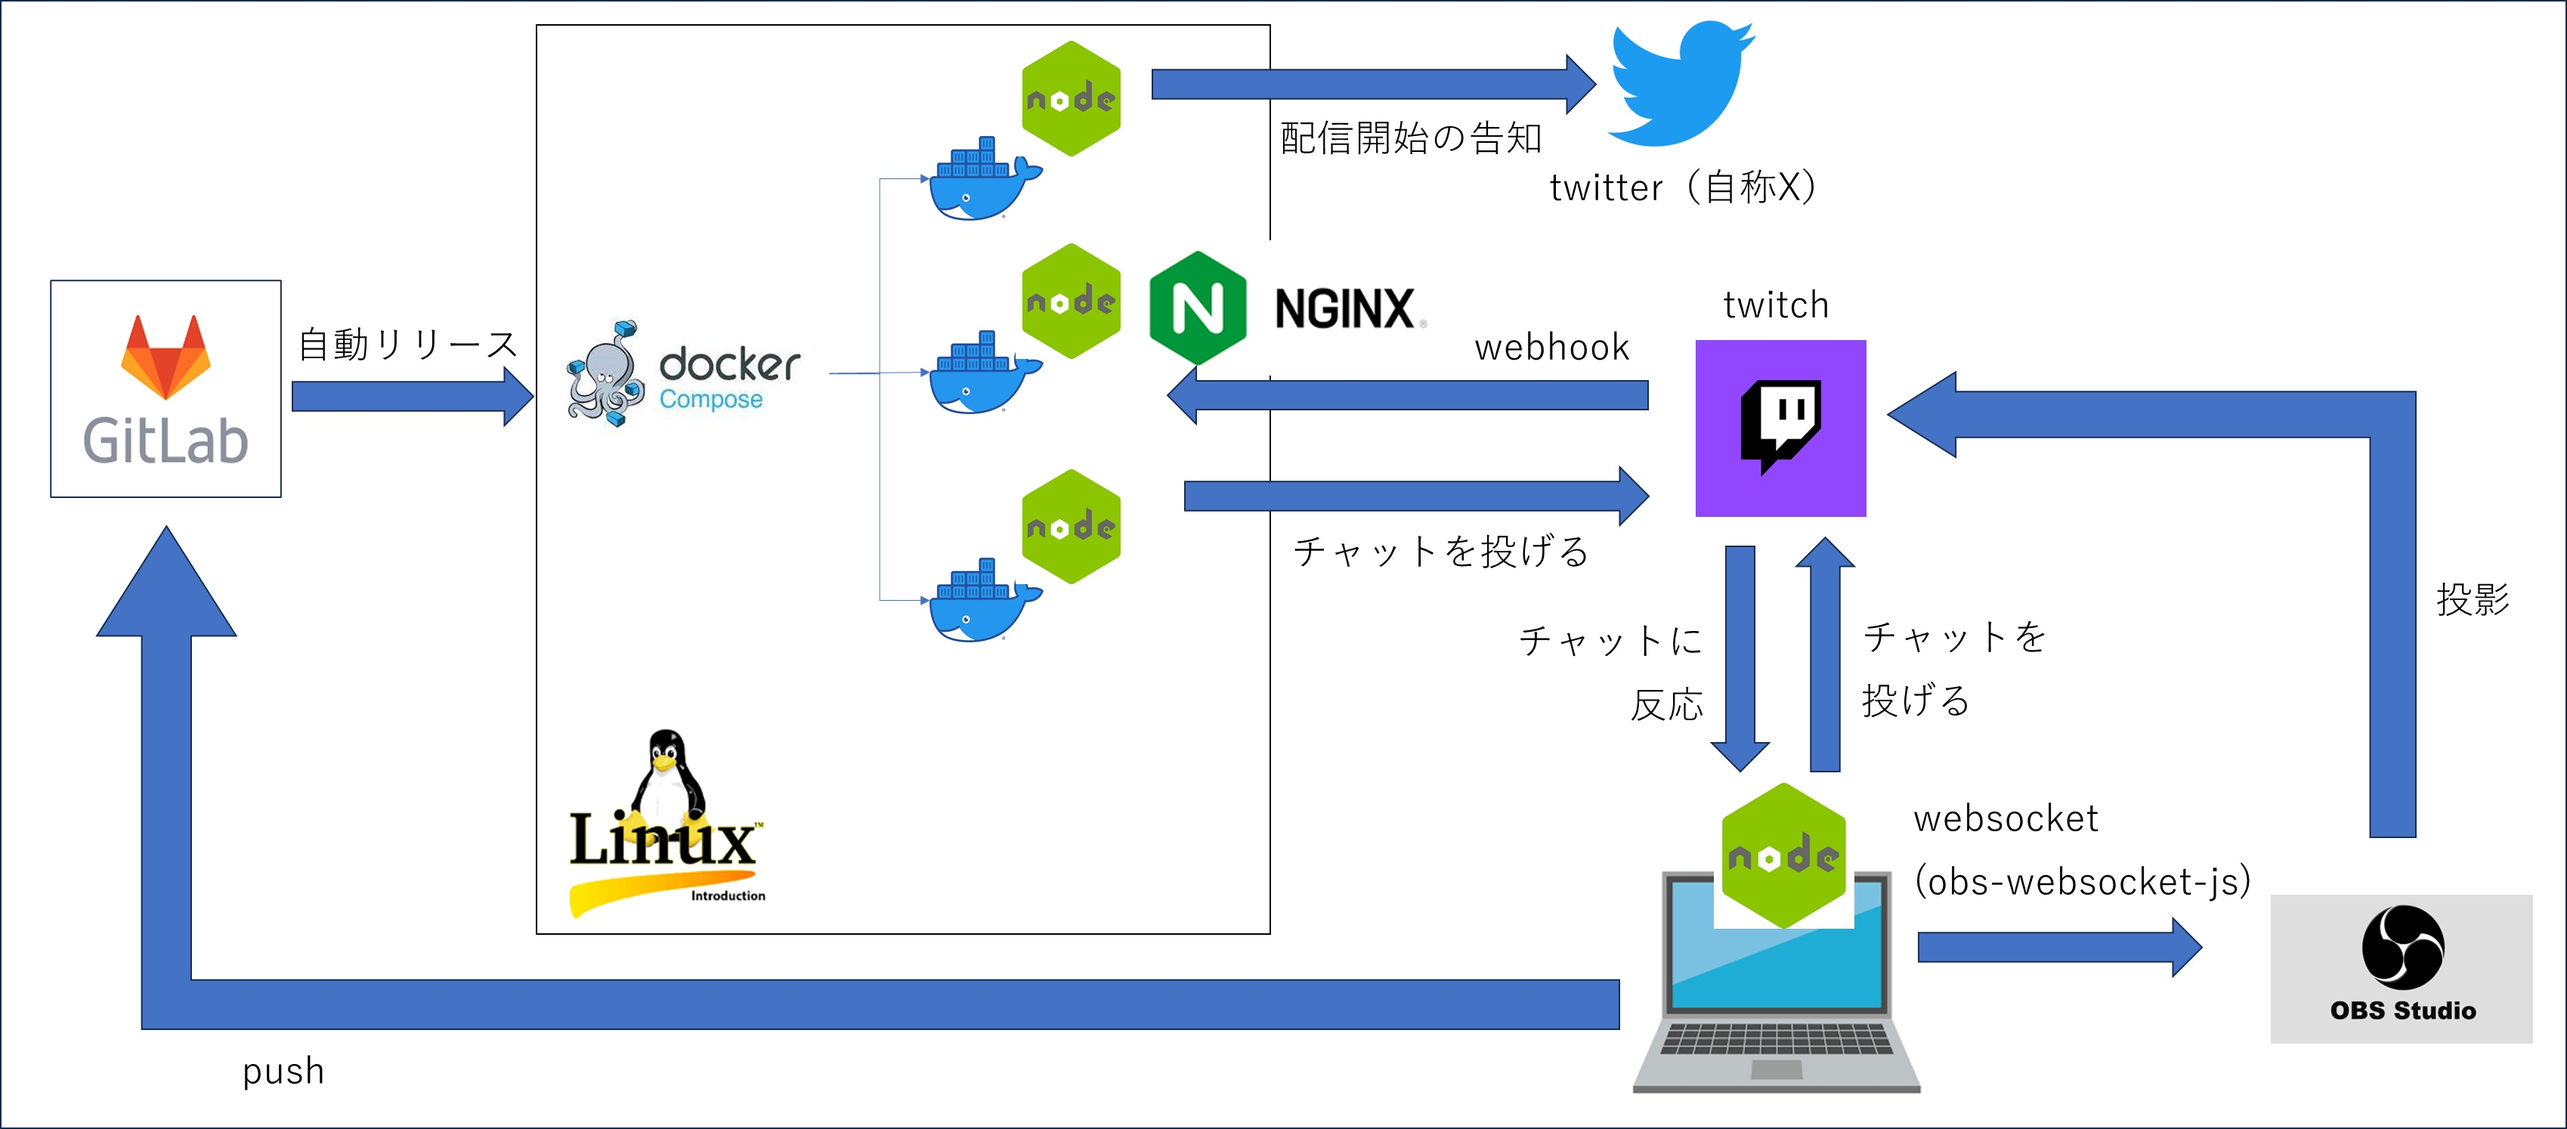
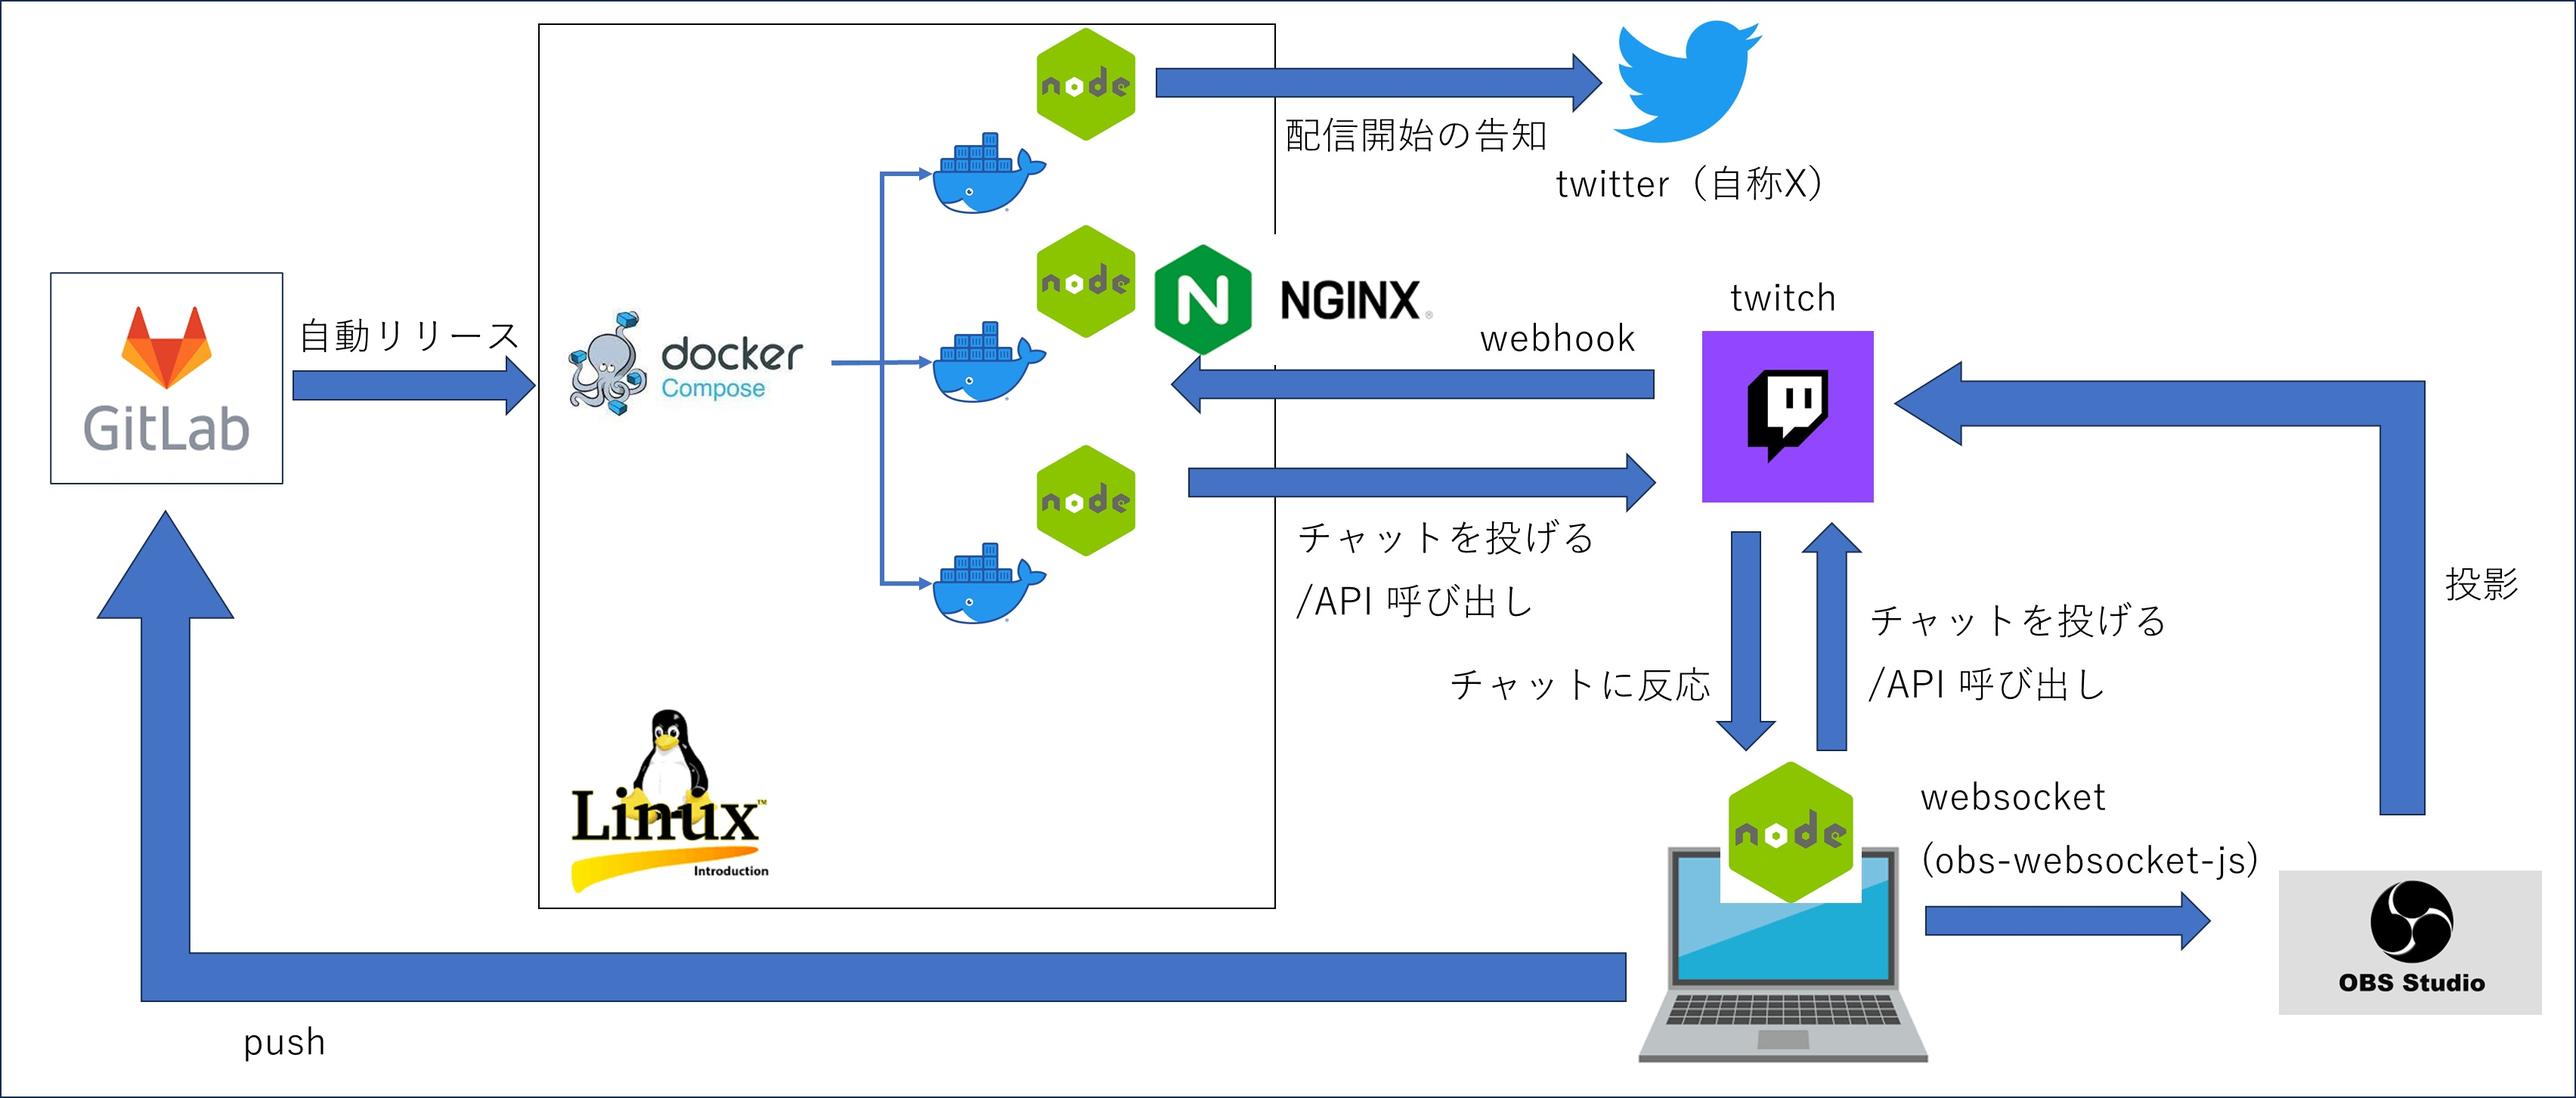
js×twitch記事執筆中

diff --git a/contents/development/javascript/nodejs/twitch.html b/contents/development/javascript/nodejs/twitch.html
@@ -47,6 +47,7 @@
       <li><a href="https://qiita.com/taumax" target="_blank"><img src="../../../../images/icon_qiita.png" alt="Qiita"></a></li>
     </ul>
     <ul class="indent_no">
+      <li><a href="#firstly">はじめに</a></li>
       <li><a href="#implementation">作った物</a></li>
       <li><a href="#authentication">Twitch 認証</a></li>
       <li><a href="#user">Twitch の<br/>ユーザー</a></li>
@@ -74,6 +75,7 @@
         <li><a href="https://qiita.com/taumax" target="_blank"><img src="../../../../images/icon_qiita.png" alt="Qiita"></a></li>
       </ul>
       <ul class="indent_no">
+        <li><a href="#firstly">はじめに</a></li>
         <li><a href="#implementation">作った物</a></li>
         <li><a href="#authentication">Twitch 認証</a></li>
         <li><a href="#user">Twitch のユーザー</a></li>
@@ -103,11 +105,20 @@
         </ul>
 
         <br/><br/>
+        <span id="firstly"></span>
+        <h3 class="title">はじめに</h3>
+        <p>
+          このページでは、自分が Node.js を使って実際に作った物について記載しています。<br/>
+          <a href="./nodejs.html">Node.js</a>の記事を読んだ前提で書いています。今見ているこの頁の1階層上の記事です。<br/>
+          EventEmitter と言われてピンと来ないようなら、<a href="./nodejs.html#async">非同期のイベント駆動型ランタイム</a>の部分だけでも読んでください。<br/>
+        </p>
+
+        <br/>
         <span id="implementation"></span>
         <h3 class="title">作った物</h3>
         <p>
-          twitchというプラットフォームを使ってゲームの配信をしているのですが、Node.jsを使ってbotを動かすなど、いろいろカスタマイズしています。そのシステム構成が以下の図。<br/>
-          OBSはゲーム配信するためのツールです。websocket経由で操作しています。<br/>
+          Twitch というプラットフォームを使ってゲームの配信をしているのですが、Node.jsを使ってbotを動かすなど、いろいろカスタマイズしています。そのシステム構成が以下の図。<br/>
+          図右下の OBS Studio はゲーム配信するためのツールです。 <a href="https://github.com/obs-websocket-community-projects/obs-websocket-js" target="_blank" rel="noopener noreferrer">obs-websocket-js</a> というライブラリを使って、Node.js から WebSocket 経由で操作しています。<br/>
           <img src="./img/play_with_nodejs.jpg" width="800" /><br/>
         </p>
 
@@ -116,14 +127,20 @@
         <ol>
           <li>
             チャンネルポイント使用→webhook→チャット→OBS操作<br/>
-            twitchにはチャンネルポイントという機能があり、使用されたら任意のサーバーにWebhookリクエストを飛ばすことができます。<br/>
-            サーバにWebhookが飛んで来たらそれに対応するメッセージをチャットに投げて、そのチャットをトリガーにEventEmitterでローカルのNode.jsを稼働させ、websocket経由でOBSを操作しています。<br/>
-            以下がチャンネルポイントを使った例(2h9m35s頃)。webhookを受けて「やきつくしてさしあげますわ！」という台詞をbotが喋り、その台詞をトリガーにローカルのNode.jsが稼働し、OBSを操作することで画面に炎を表示させたり、BGMを流したりしています。<br/>
+            twitchにはチャンネルポイントという機能があり、（普通こんな使い方はしないのですが）使用されたら任意のサーバーに Webhook リクエストを飛ばすこともできます。<br/>
+            サーバに Webhook が飛んで来たらそれに対応するメッセージをチャットに投げて、そのチャットをトリガーに EventEmitter でローカルの Node.js を稼働させ、WebSocket 経由で OBS を操作しています（下図の赤線の流れ）。<br/>
+            <img src="./img/chanel_point.jpg" width="800" /><br/>
+
+            <br/>
+            以下がチャンネルポイントを使った例(2h9m35s頃)。 Webhook を受けて「やきつくしてさしあげますわ！」という台詞をbotが喋り、その台詞をトリガーにローカルの Node.js が稼働し、OBS を操作することで画面に炎を表示させたり、音声を流したりしています。<br/>
           </li>
           <iframe src="https://player.twitch.tv/?video=2098995290&time=2h9m35s&parent=taumax-github.github.io" frameborder="0" allowfullscreen="true" scrolling="no" height="378" width="620"></iframe>
           <li>
             配信開始→Webhook→twitter<br/>
-            配信を開始した際にもWebhookリクエストを飛ばすことができるので、それをトリガーにX（旧twitter）に配信開始を告知する処理を稼働させています。<br/>
+            配信を開始した際にもWebhookリクエストを飛ばすことができるので、それをトリガーにX（旧twitter）に配信開始を告知する処理を稼働させています（下図の赤線の流れ）。<br/>
+            <img src="./img/auto_post.jpg" width="800" /><br/>
+
+            <br/>
             以下が実際のポスト。<br/>
           </li>
           <blockquote class="twitter-tweet"><p lang="ja" dir="ltr">twitch配信通知bot<br>twitchでロマサガ3配信中です！<br>お時間合う方是非遊びに来てみてくださーい。<br>▶視聴はこちら：<a href="https://t.co/P46Z6JrYH1">https://t.co/P46Z6JrYH1</a><a href="https://twitter.com/hashtag/%E3%83%AD%E3%83%9E%E3%82%B5%E3%82%AC3?src=hash&amp;ref_src=twsrc%5Etfw">#ロマサガ3</a> <a href="https://twitter.com/hashtag/%E3%83%AC%E3%83%88%E3%83%AD%E3%82%B2%E3%83%BC%E3%83%A0?src=hash&amp;ref_src=twsrc%5Etfw">#レトロゲーム</a> <a href="https://twitter.com/hashtag/%E3%83%AC%E3%83%88%E3%83%AD%E3%82%B3%E3%83%B3%E3%82%B7%E3%83%A5%E3%83%BC%E3%83%9E%E3%83%BC%E6%84%9B%E5%A5%BD%E4%BC%9A?src=hash&amp;ref_src=twsrc%5Etfw">#レトロコンシューマー愛好会</a> <a href="https://t.co/UeLX1jIXB8">pic.twitter.com/UeLX1jIXB8</a></p>&mdash; sagamax@サガとレトロゲー (@sagamax__) <a href="https://twitter.com/sagamax__/status/1708089149629301126?ref_src=twsrc%5Etfw">September 30, 2023</a></blockquote> <script async src="https://platform.twitter.com/widgets.js" charset="utf-8"></script>
